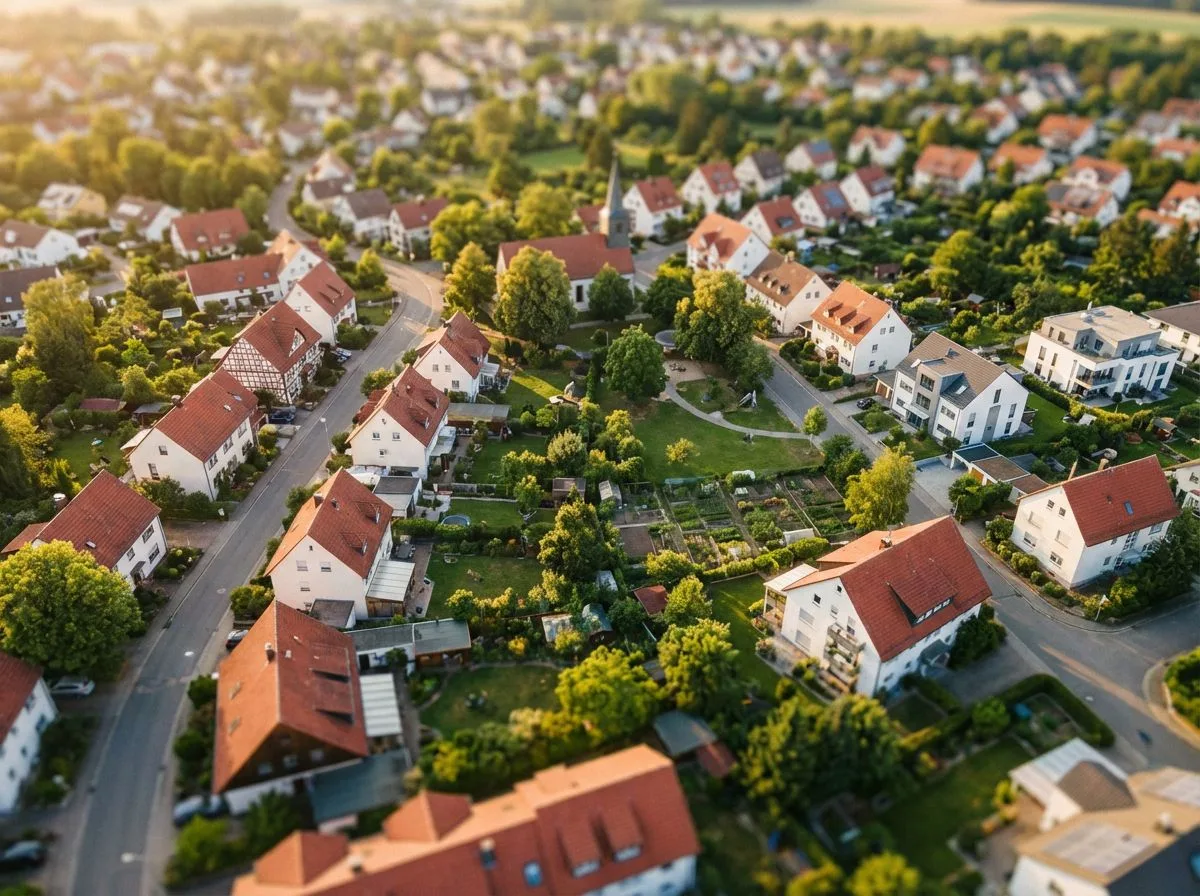
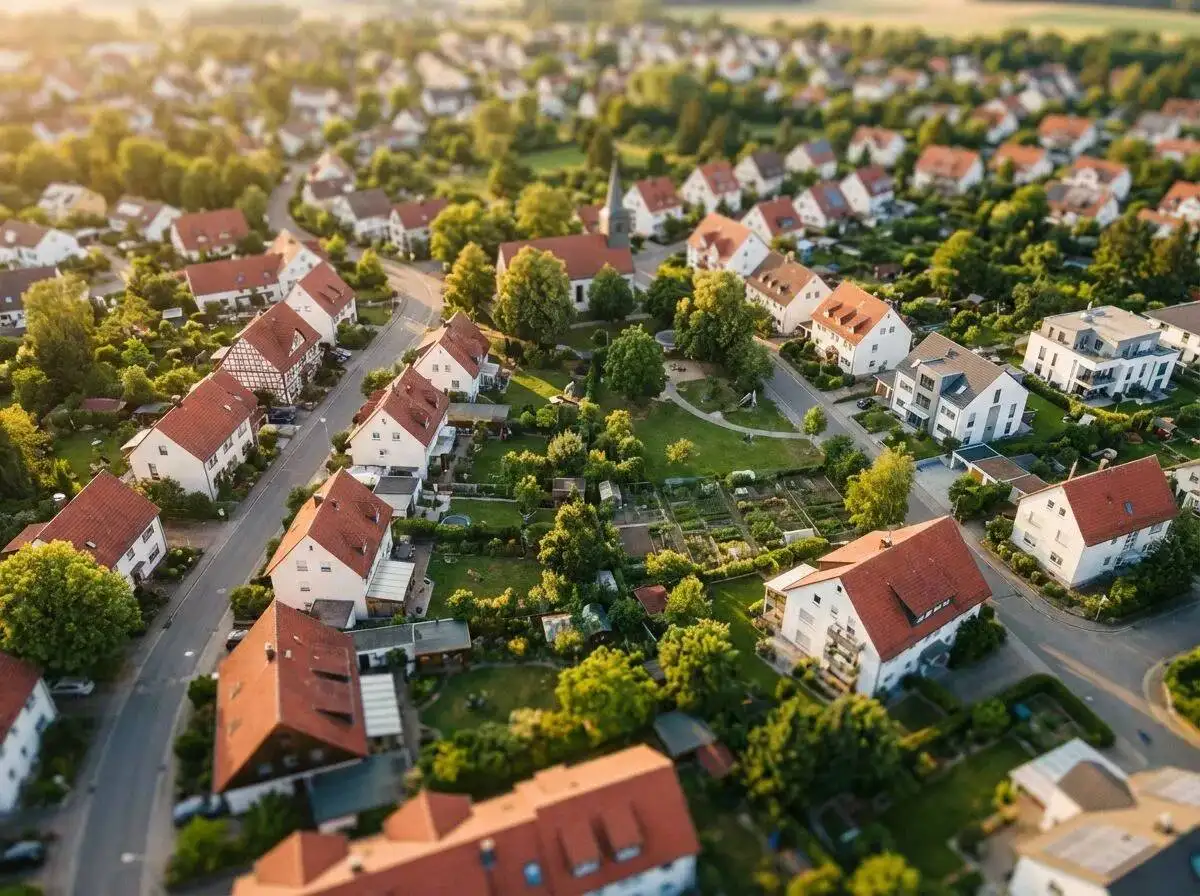
Fix PageSpeed: async Google Fonts, contrast, image compression
- Load Google Fonts via media="print" onload trick (saves ~750ms render-blocking)
- Fix WCAG AA contrast: --text3 #4a5568 → #7a8599 (5.3:1 ratio)
- Trust bar and footer spans use --text2 instead of --text3
- .lead text uses --text for better contrast on dark overlays
- Recompress oversized images with lower quality

diff --git a/assets/css/styles.css b/assets/css/styles.css
@@ -19,7 +19,7 @@
 
   --text: #e8edf5;
   --text2: #8a95a8;
-  --text3: #4a5568;
+  --text3: #7a8599;
   --white: #ffffff;
 
   --font: 'Inter', -apple-system, BlinkMacSystemFont, 'Segoe UI', sans-serif;
@@ -70,7 +70,7 @@ h2{font-size:clamp(1.6rem,3.5vw,2.6rem)}
 h3{font-size:clamp(1.15rem,2vw,1.5rem)}
 h4{font-size:1.1rem}
 
-.lead{font-size:clamp(1.05rem,1.8vw,1.25rem);color:var(--text2);max-width:640px}
+.lead{font-size:clamp(1.05rem,1.8vw,1.25rem);color:var(--text);max-width:640px}
 
 /* --- LAYOUT --- */
 .container{max-width:var(--max);margin:0 auto;padding:0 clamp(20px,4vw,40px)}
@@ -467,7 +467,7 @@ footer{
 footer strong{color:var(--white);font-size:.9rem;margin-bottom:12px;display:block}
 footer a{color:var(--text2);text-decoration:none;transition:color .25s}
 footer a:hover{color:var(--cyan)}
-footer p,footer span{color:var(--text3);font-size:.85rem}
+footer p,footer span{color:var(--text2);font-size:.85rem}
 
 .footer-bottom{
   display:flex;justify-content:space-between;align-items:center;flex-wrap:wrap;gap:12px;
@@ -546,7 +546,7 @@ footer p,footer span{color:var(--text3);font-size:.85rem}
   animation:marquee 25s linear infinite;
 }
 .trust-inner span{
-  white-space:nowrap;font-size:.85rem;color:var(--text3);
+  white-space:nowrap;font-size:.85rem;color:var(--text2);
   font-weight:600;letter-spacing:.06em;text-transform:uppercase;
   display:flex;align-items:center;gap:8px;
 }

diff --git a/404.html b/404.html
@@ -10,9 +10,13 @@
   <link rel="icon" type="image/png" sizes="16x16" href="assets/img/favicon-16x16.png">
   <link rel="apple-touch-icon" href="assets/img/apple-touch-icon.png">
   <link rel="manifest" href="manifest.json">
+  
+  
   <link rel="preconnect" href="https://fonts.googleapis.com">
   <link rel="preconnect" href="https://fonts.gstatic.com" crossorigin>
-  <link href="https://fonts.googleapis.com/css2?family=Inter:wght@400;500;600;700;800&display=swap" rel="stylesheet">
+  <link rel="preload" as="style" href="https://fonts.googleapis.com/css2?family=Inter:wght@400;500;600;700;800&display=swap">
+  <link href="https://fonts.googleapis.com/css2?family=Inter:wght@400;500;600;700;800&display=swap" rel="stylesheet" media="print" onload="this.media='all'">
+  <noscript><link rel="stylesheet" href="https://fonts.googleapis.com/css2?family=Inter:wght@400;500;600;700;800&display=swap"></noscript>
   <link rel="stylesheet" href="assets/css/styles.css">
 </head>
 <body>

diff --git a/datenschutz.html b/datenschutz.html
@@ -12,9 +12,13 @@
   <link rel="icon" type="image/png" sizes="16x16" href="assets/img/favicon-16x16.png">
   <link rel="apple-touch-icon" href="assets/img/apple-touch-icon.png">
   <link rel="manifest" href="manifest.json">
+  
+  
   <link rel="preconnect" href="https://fonts.googleapis.com">
   <link rel="preconnect" href="https://fonts.gstatic.com" crossorigin>
-  <link href="https://fonts.googleapis.com/css2?family=Inter:wght@400;500;600;700;800&display=swap" rel="stylesheet">
+  <link rel="preload" as="style" href="https://fonts.googleapis.com/css2?family=Inter:wght@400;500;600;700;800&display=swap">
+  <link href="https://fonts.googleapis.com/css2?family=Inter:wght@400;500;600;700;800&display=swap" rel="stylesheet" media="print" onload="this.media='all'">
+  <noscript><link rel="stylesheet" href="https://fonts.googleapis.com/css2?family=Inter:wght@400;500;600;700;800&display=swap"></noscript>
   <link rel="stylesheet" href="assets/css/styles.css">
 </head>
 <body>

diff --git a/impressum.html b/impressum.html
@@ -12,9 +12,13 @@
   <link rel="icon" type="image/png" sizes="16x16" href="assets/img/favicon-16x16.png">
   <link rel="apple-touch-icon" href="assets/img/apple-touch-icon.png">
   <link rel="manifest" href="manifest.json">
+  
+  
   <link rel="preconnect" href="https://fonts.googleapis.com">
   <link rel="preconnect" href="https://fonts.gstatic.com" crossorigin>
-  <link href="https://fonts.googleapis.com/css2?family=Inter:wght@400;500;600;700;800&display=swap" rel="stylesheet">
+  <link rel="preload" as="style" href="https://fonts.googleapis.com/css2?family=Inter:wght@400;500;600;700;800&display=swap">
+  <link href="https://fonts.googleapis.com/css2?family=Inter:wght@400;500;600;700;800&display=swap" rel="stylesheet" media="print" onload="this.media='all'">
+  <noscript><link rel="stylesheet" href="https://fonts.googleapis.com/css2?family=Inter:wght@400;500;600;700;800&display=swap"></noscript>
   <link rel="stylesheet" href="assets/css/styles.css">
 </head>
 <body>

diff --git a/kontakt.html b/kontakt.html
@@ -18,9 +18,13 @@
   <link rel="icon" type="image/png" sizes="16x16" href="assets/img/favicon-16x16.png">
   <link rel="apple-touch-icon" href="assets/img/apple-touch-icon.png">
   <link rel="manifest" href="manifest.json">
+  
+  
   <link rel="preconnect" href="https://fonts.googleapis.com">
   <link rel="preconnect" href="https://fonts.gstatic.com" crossorigin>
-  <link href="https://fonts.googleapis.com/css2?family=Inter:wght@400;500;600;700;800&display=swap" rel="stylesheet">
+  <link rel="preload" as="style" href="https://fonts.googleapis.com/css2?family=Inter:wght@400;500;600;700;800&display=swap">
+  <link href="https://fonts.googleapis.com/css2?family=Inter:wght@400;500;600;700;800&display=swap" rel="stylesheet" media="print" onload="this.media='all'">
+  <noscript><link rel="stylesheet" href="https://fonts.googleapis.com/css2?family=Inter:wght@400;500;600;700;800&display=swap"></noscript>
   <link rel="stylesheet" href="assets/css/styles.css">
 </head>
 <body>

diff --git a/leistungen-events.html b/leistungen-events.html
@@ -18,9 +18,13 @@
   <link rel="icon" type="image/png" sizes="16x16" href="assets/img/favicon-16x16.png">
   <link rel="apple-touch-icon" href="assets/img/apple-touch-icon.png">
   <link rel="manifest" href="manifest.json">
+  
+  
   <link rel="preconnect" href="https://fonts.googleapis.com">
   <link rel="preconnect" href="https://fonts.gstatic.com" crossorigin>
-  <link href="https://fonts.googleapis.com/css2?family=Inter:wght@400;500;600;700;800&display=swap" rel="stylesheet">
+  <link rel="preload" as="style" href="https://fonts.googleapis.com/css2?family=Inter:wght@400;500;600;700;800&display=swap">
+  <link href="https://fonts.googleapis.com/css2?family=Inter:wght@400;500;600;700;800&display=swap" rel="stylesheet" media="print" onload="this.media='all'">
+  <noscript><link rel="stylesheet" href="https://fonts.googleapis.com/css2?family=Inter:wght@400;500;600;700;800&display=swap"></noscript>
   <link rel="stylesheet" href="assets/css/styles.css">
 </head>
 <body>

diff --git a/leistungen-immobilien.html b/leistungen-immobilien.html
@@ -18,9 +18,13 @@
   <link rel="icon" type="image/png" sizes="16x16" href="assets/img/favicon-16x16.png">
   <link rel="apple-touch-icon" href="assets/img/apple-touch-icon.png">
   <link rel="manifest" href="manifest.json">
+  
+  
   <link rel="preconnect" href="https://fonts.googleapis.com">
   <link rel="preconnect" href="https://fonts.gstatic.com" crossorigin>
-  <link href="https://fonts.googleapis.com/css2?family=Inter:wght@400;500;600;700;800&display=swap" rel="stylesheet">
+  <link rel="preload" as="style" href="https://fonts.googleapis.com/css2?family=Inter:wght@400;500;600;700;800&display=swap">
+  <link href="https://fonts.googleapis.com/css2?family=Inter:wght@400;500;600;700;800&display=swap" rel="stylesheet" media="print" onload="this.media='all'">
+  <noscript><link rel="stylesheet" href="https://fonts.googleapis.com/css2?family=Inter:wght@400;500;600;700;800&display=swap"></noscript>
   <link rel="stylesheet" href="assets/css/styles.css">
 </head>
 <body>

diff --git a/leistungen-inspektion.html b/leistungen-inspektion.html
@@ -18,9 +18,13 @@
   <link rel="icon" type="image/png" sizes="16x16" href="assets/img/favicon-16x16.png">
   <link rel="apple-touch-icon" href="assets/img/apple-touch-icon.png">
   <link rel="manifest" href="manifest.json">
+  
+  
   <link rel="preconnect" href="https://fonts.googleapis.com">
   <link rel="preconnect" href="https://fonts.gstatic.com" crossorigin>
-  <link href="https://fonts.googleapis.com/css2?family=Inter:wght@400;500;600;700;800&display=swap" rel="stylesheet">
+  <link rel="preload" as="style" href="https://fonts.googleapis.com/css2?family=Inter:wght@400;500;600;700;800&display=swap">
+  <link href="https://fonts.googleapis.com/css2?family=Inter:wght@400;500;600;700;800&display=swap" rel="stylesheet" media="print" onload="this.media='all'">
+  <noscript><link rel="stylesheet" href="https://fonts.googleapis.com/css2?family=Inter:wght@400;500;600;700;800&display=swap"></noscript>
   <link rel="stylesheet" href="assets/css/styles.css">
 </head>
 <body>

diff --git a/leistungen-luftbilder.html b/leistungen-luftbilder.html
@@ -18,9 +18,13 @@
   <link rel="icon" type="image/png" sizes="16x16" href="assets/img/favicon-16x16.png">
   <link rel="apple-touch-icon" href="assets/img/apple-touch-icon.png">
   <link rel="manifest" href="manifest.json">
+  
+  
   <link rel="preconnect" href="https://fonts.googleapis.com">
   <link rel="preconnect" href="https://fonts.gstatic.com" crossorigin>
-  <link href="https://fonts.googleapis.com/css2?family=Inter:wght@400;500;600;700;800&display=swap" rel="stylesheet">
+  <link rel="preload" as="style" href="https://fonts.googleapis.com/css2?family=Inter:wght@400;500;600;700;800&display=swap">
+  <link href="https://fonts.googleapis.com/css2?family=Inter:wght@400;500;600;700;800&display=swap" rel="stylesheet" media="print" onload="this.media='all'">
+  <noscript><link rel="stylesheet" href="https://fonts.googleapis.com/css2?family=Inter:wght@400;500;600;700;800&display=swap"></noscript>
   <link rel="stylesheet" href="assets/css/styles.css">
 </head>
 <body>

diff --git a/leistungen-mapping.html b/leistungen-mapping.html
@@ -18,9 +18,13 @@
   <link rel="icon" type="image/png" sizes="16x16" href="assets/img/favicon-16x16.png">
   <link rel="apple-touch-icon" href="assets/img/apple-touch-icon.png">
   <link rel="manifest" href="manifest.json">
+  
+  
   <link rel="preconnect" href="https://fonts.googleapis.com">
   <link rel="preconnect" href="https://fonts.gstatic.com" crossorigin>
-  <link href="https://fonts.googleapis.com/css2?family=Inter:wght@400;500;600;700;800&display=swap" rel="stylesheet">
+  <link rel="preload" as="style" href="https://fonts.googleapis.com/css2?family=Inter:wght@400;500;600;700;800&display=swap">
+  <link href="https://fonts.googleapis.com/css2?family=Inter:wght@400;500;600;700;800&display=swap" rel="stylesheet" media="print" onload="this.media='all'">
+  <noscript><link rel="stylesheet" href="https://fonts.googleapis.com/css2?family=Inter:wght@400;500;600;700;800&display=swap"></noscript>
   <link rel="stylesheet" href="assets/css/styles.css">
 </head>
 <body>

diff --git a/leistungen-video.html b/leistungen-video.html
@@ -18,9 +18,13 @@
   <link rel="icon" type="image/png" sizes="16x16" href="assets/img/favicon-16x16.png">
   <link rel="apple-touch-icon" href="assets/img/apple-touch-icon.png">
   <link rel="manifest" href="manifest.json">
+  
+  
   <link rel="preconnect" href="https://fonts.googleapis.com">
   <link rel="preconnect" href="https://fonts.gstatic.com" crossorigin>
-  <link href="https://fonts.googleapis.com/css2?family=Inter:wght@400;500;600;700;800&display=swap" rel="stylesheet">
+  <link rel="preload" as="style" href="https://fonts.googleapis.com/css2?family=Inter:wght@400;500;600;700;800&display=swap">
+  <link href="https://fonts.googleapis.com/css2?family=Inter:wght@400;500;600;700;800&display=swap" rel="stylesheet" media="print" onload="this.media='all'">
+  <noscript><link rel="stylesheet" href="https://fonts.googleapis.com/css2?family=Inter:wght@400;500;600;700;800&display=swap"></noscript>
   <link rel="stylesheet" href="assets/css/styles.css">
 </head>
 <body>

diff --git a/leistungen.html b/leistungen.html
@@ -18,9 +18,13 @@
   <link rel="icon" type="image/png" sizes="16x16" href="assets/img/favicon-16x16.png">
   <link rel="apple-touch-icon" href="assets/img/apple-touch-icon.png">
   <link rel="manifest" href="manifest.json">
+  
+  
   <link rel="preconnect" href="https://fonts.googleapis.com">
   <link rel="preconnect" href="https://fonts.gstatic.com" crossorigin>
-  <link href="https://fonts.googleapis.com/css2?family=Inter:wght@400;500;600;700;800&display=swap" rel="stylesheet">
+  <link rel="preload" as="style" href="https://fonts.googleapis.com/css2?family=Inter:wght@400;500;600;700;800&display=swap">
+  <link href="https://fonts.googleapis.com/css2?family=Inter:wght@400;500;600;700;800&display=swap" rel="stylesheet" media="print" onload="this.media='all'">
+  <noscript><link rel="stylesheet" href="https://fonts.googleapis.com/css2?family=Inter:wght@400;500;600;700;800&display=swap"></noscript>
   <link rel="stylesheet" href="assets/css/styles.css">
 </head>
 <body>
